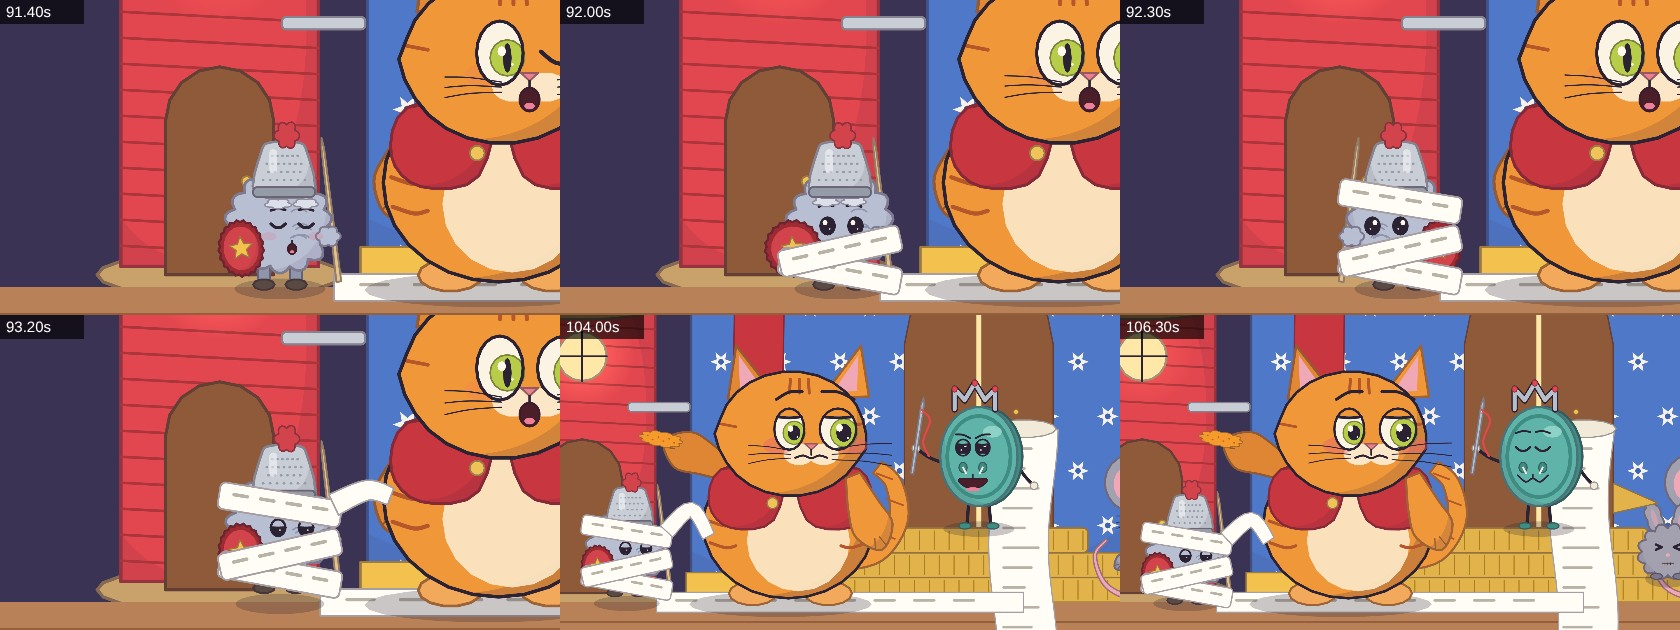
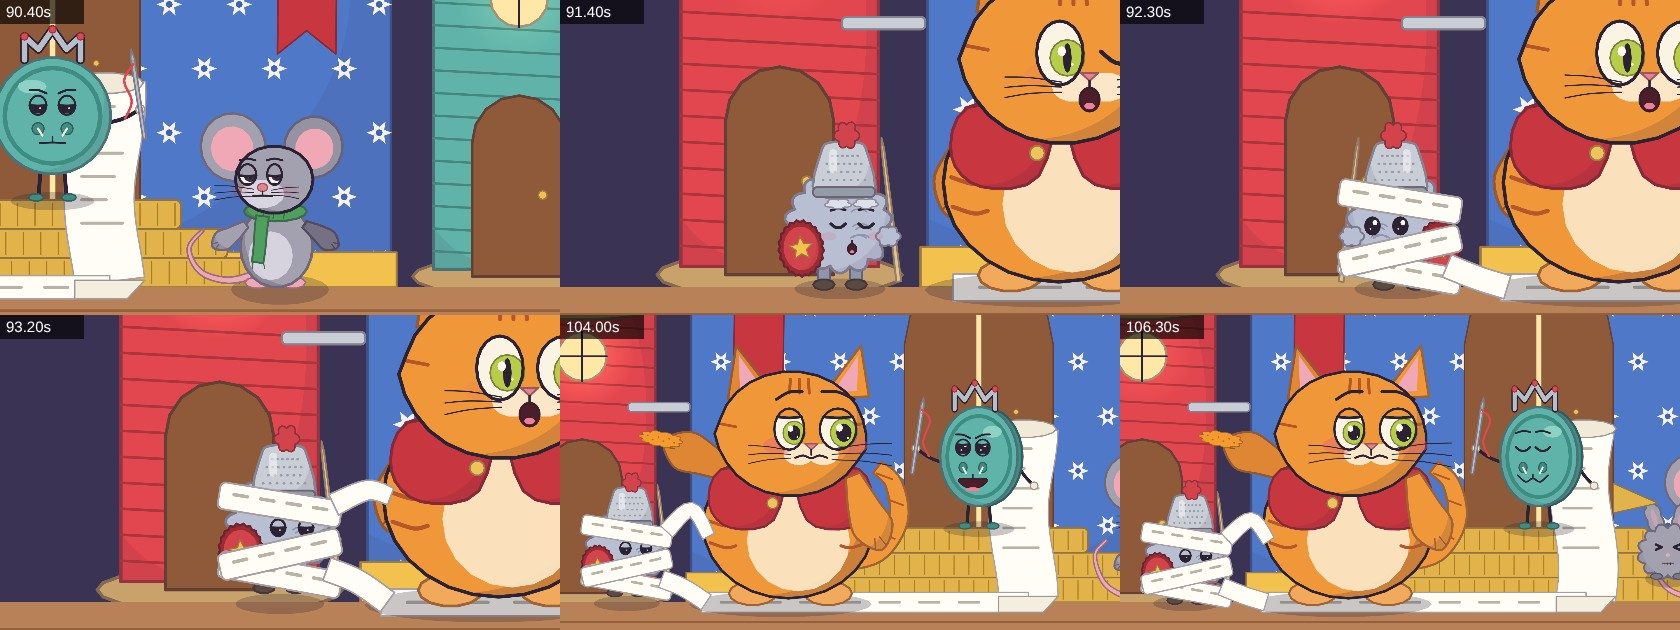
long/07 ch1: the receipt is one unbroken strip (hangs to the floor, folds, runs left, climbs into the wrap)
Claude-Session: https://claude.ai/code/session_01WxLgLCMvMcVaDmvrqqXGT7

diff --git a/long/07-couch-kingdom/src/scenes/shots.js b/long/07-couch-kingdom/src/scenes/shots.js
@@ -212,10 +212,16 @@
     camT(cx, z, [Math.sin(whip * Math.PI) * 300, 0]);
     palaceFront(t);
     // the receipt drops from the Queen's hand down the steps... and keeps going
-    if (t > 86.4) receipt(qx + 90, qy - 200, 120 + unroll * (STEP + 200), t * .5, false);
+    const bx = qx + 90 + Math.sin(6 + t * .5) * 10;   // where the hanging receipt meets the floor
+    if (t > 86.4) receipt(qx + 90, qy - 200, 120 + unroll * (STEP + 200 - 130), t * .5, false);
     // ...and it keeps coming: along the floor to the left, round and round Sir Lint
     const slide = ease(seg(t, 89.6, 91.6)), wrapK = seg(t, 91.6, 92.5);
-    if (t > 89.6) { const x1 = lerp(qx + 90, 250 + 60, slide); paint(rectPts(x1, TFY - 20, qx + 90 - x1, 40), { wash: '#FFFDF6', ink: PAL.ink, sw: 1.2 }); for (let i = 0; i < 8; i++) { const xx = x1 + 40 + i * 80; if (xx < qx + 60) inkLine([[xx, TFY - 4], [xx + 40, TFY - 4]], 2.5, '#B9B2A6', 'ink', 0); } }
+    if (t > 89.6) {   // one continuous strip: the hanging part folds onto the floor and runs left to Sir Lint
+      const x1 = lerp(bx, 250 + 150, slide);
+      paint(rectPts(x1, TFY - 20, bx - x1, 40), { wash: '#FFFDF6', ink: PAL.ink, sw: 1.2 });
+      for (let i = 0; i < 8; i++) { const xx = x1 + 40 + i * 80; if (xx < bx - 80) inkLine([[xx, TFY], [xx + 40, TFY]], 2.5, '#B9B2A6', 'ink', 0); }
+      paint([[bx - 60, TFY - 12], [bx + 60, TFY - 12], [bx + 30, TFY + 20], [bx - 60, TFY + 20]], { wash: '#F4EEDF', ink: PAL.ink, sw: 1.2 });   // the fold where it bends onto the floor
+    }
     queenButton(qx, qy, U, { ...faces(t, [[82, 'proud'], [86, 'happy', { mouth: 'grin' }], [89.5, 'annoyed'], [91, 'proud', { mouth: 'grin' }], [93.6, 'neutral', { brow: .3 }], [100.4, 'determined', { mouth: 'grin' }], [104.6, 'proud']]),
       aL: t > 100.4 && t < 103 ? .9 : -.9, aR: t > 86.4 && t < 99 ? .4 : .5, flip: t > 100.4, view: t > 100.4 ? 'q' : 'front', who: 'queen', boilKey: 'queen' });
     const holding = t > 99.3;
@@ -224,7 +230,7 @@
     pip(PIP8, TFY, U, { ...faces(t, [[82, 'deadpan', { lookX: -1 }], [96, 'deadpan', { lookX: -1, browUp: .4 }], [101, 'surprised', { lookX: -1 }], [103.6, 'sheepish', { lookX: -1 }]]), view: 'q', flip: true, aL: t > 97.4 && t < 99 ? .6 : -.6, aR: -.6, who: 'pip', boilKey: 'pip' });
     const mum = t > 91.6, hopL = mum && t < 106 && t > 92.6 ? -Math.abs(Math.sin(t * 7)) * .5 : 0, spin = t > 91.6 && t < 92.5;
     sirLint(250, TFY, U, { ...faces(t, [[82, 'happy', { lookX: 1 }], [91.4, 'surprised', { eyes: 'wide', lookX: 1, lookY: 1 }], [92.6, 'annoyed', { brow: .8 }]]), view: spin ? (Math.floor(t * 12) % 2 ? 'q' : 'front') : 'q', flip: spin && Math.floor(t * 6) % 2 === 1, dy: hopL, boilKey: 'lint' });
-    if (mum) receiptWrap(250, TFY + hopL * U, wrapK, t);
+    if (mum) { receiptWrap(250, TFY + hopL * U, wrapK, t); const ly = TFY + hopL * U; paint(ribbon([[250 + 70, ly - 32], [250 + 115, ly - 14], [250 + 160, TFY]], 36, 36), { wash: '#FFFDF6', ink: PAL.ink, sw: 1.2 }); }   // the strip runs from the floor up into the lowest wrap
     // 105.4: one trumpeter tries a fanfare to close the ceremony: a squeak... and he bursts into dust
     if (t > 105.2) { const b = seg(t, 106.4, 106.6); if (b < 1) { dustBunny(1220, TFY - STEP / 3, U, { ...face(t > 106 ? 'strain' : 'happy', { eyes: t > 106 ? 'squeeze' : 'open' }), seed: 9, flip: true, sq: -.2 * b, boilKey: 'tbx' }); paint([[1200, TFY - STEP / 3 - 150], [1110, TFY - STEP / 3 - 190], [1110, TFY - STEP / 3 - 130]], { wash: CK.coin, ink: PAL.ink, sw: 1.2 }); } puffCloud(1220, TFY - 140, 120, t - 106.5); }
     for (const [i, x] of [[0, 700], [1, 1220]]) if (t < 86) { dustBunny(x, TFY - STEP / 3, U, { ...face('happy'), seed: 8 + i, flip: i > 0, boilKey: 'tb' + i }); const d = i ? -1 : 1; paint([[x + d * 20, TFY - STEP / 3 - 150], [x + d * 110, TFY - STEP / 3 - 190], [x + d * 110, TFY - STEP / 3 - 130]], { wash: CK.coin, ink: PAL.ink, sw: 1.2 }); }   // trumpeters
